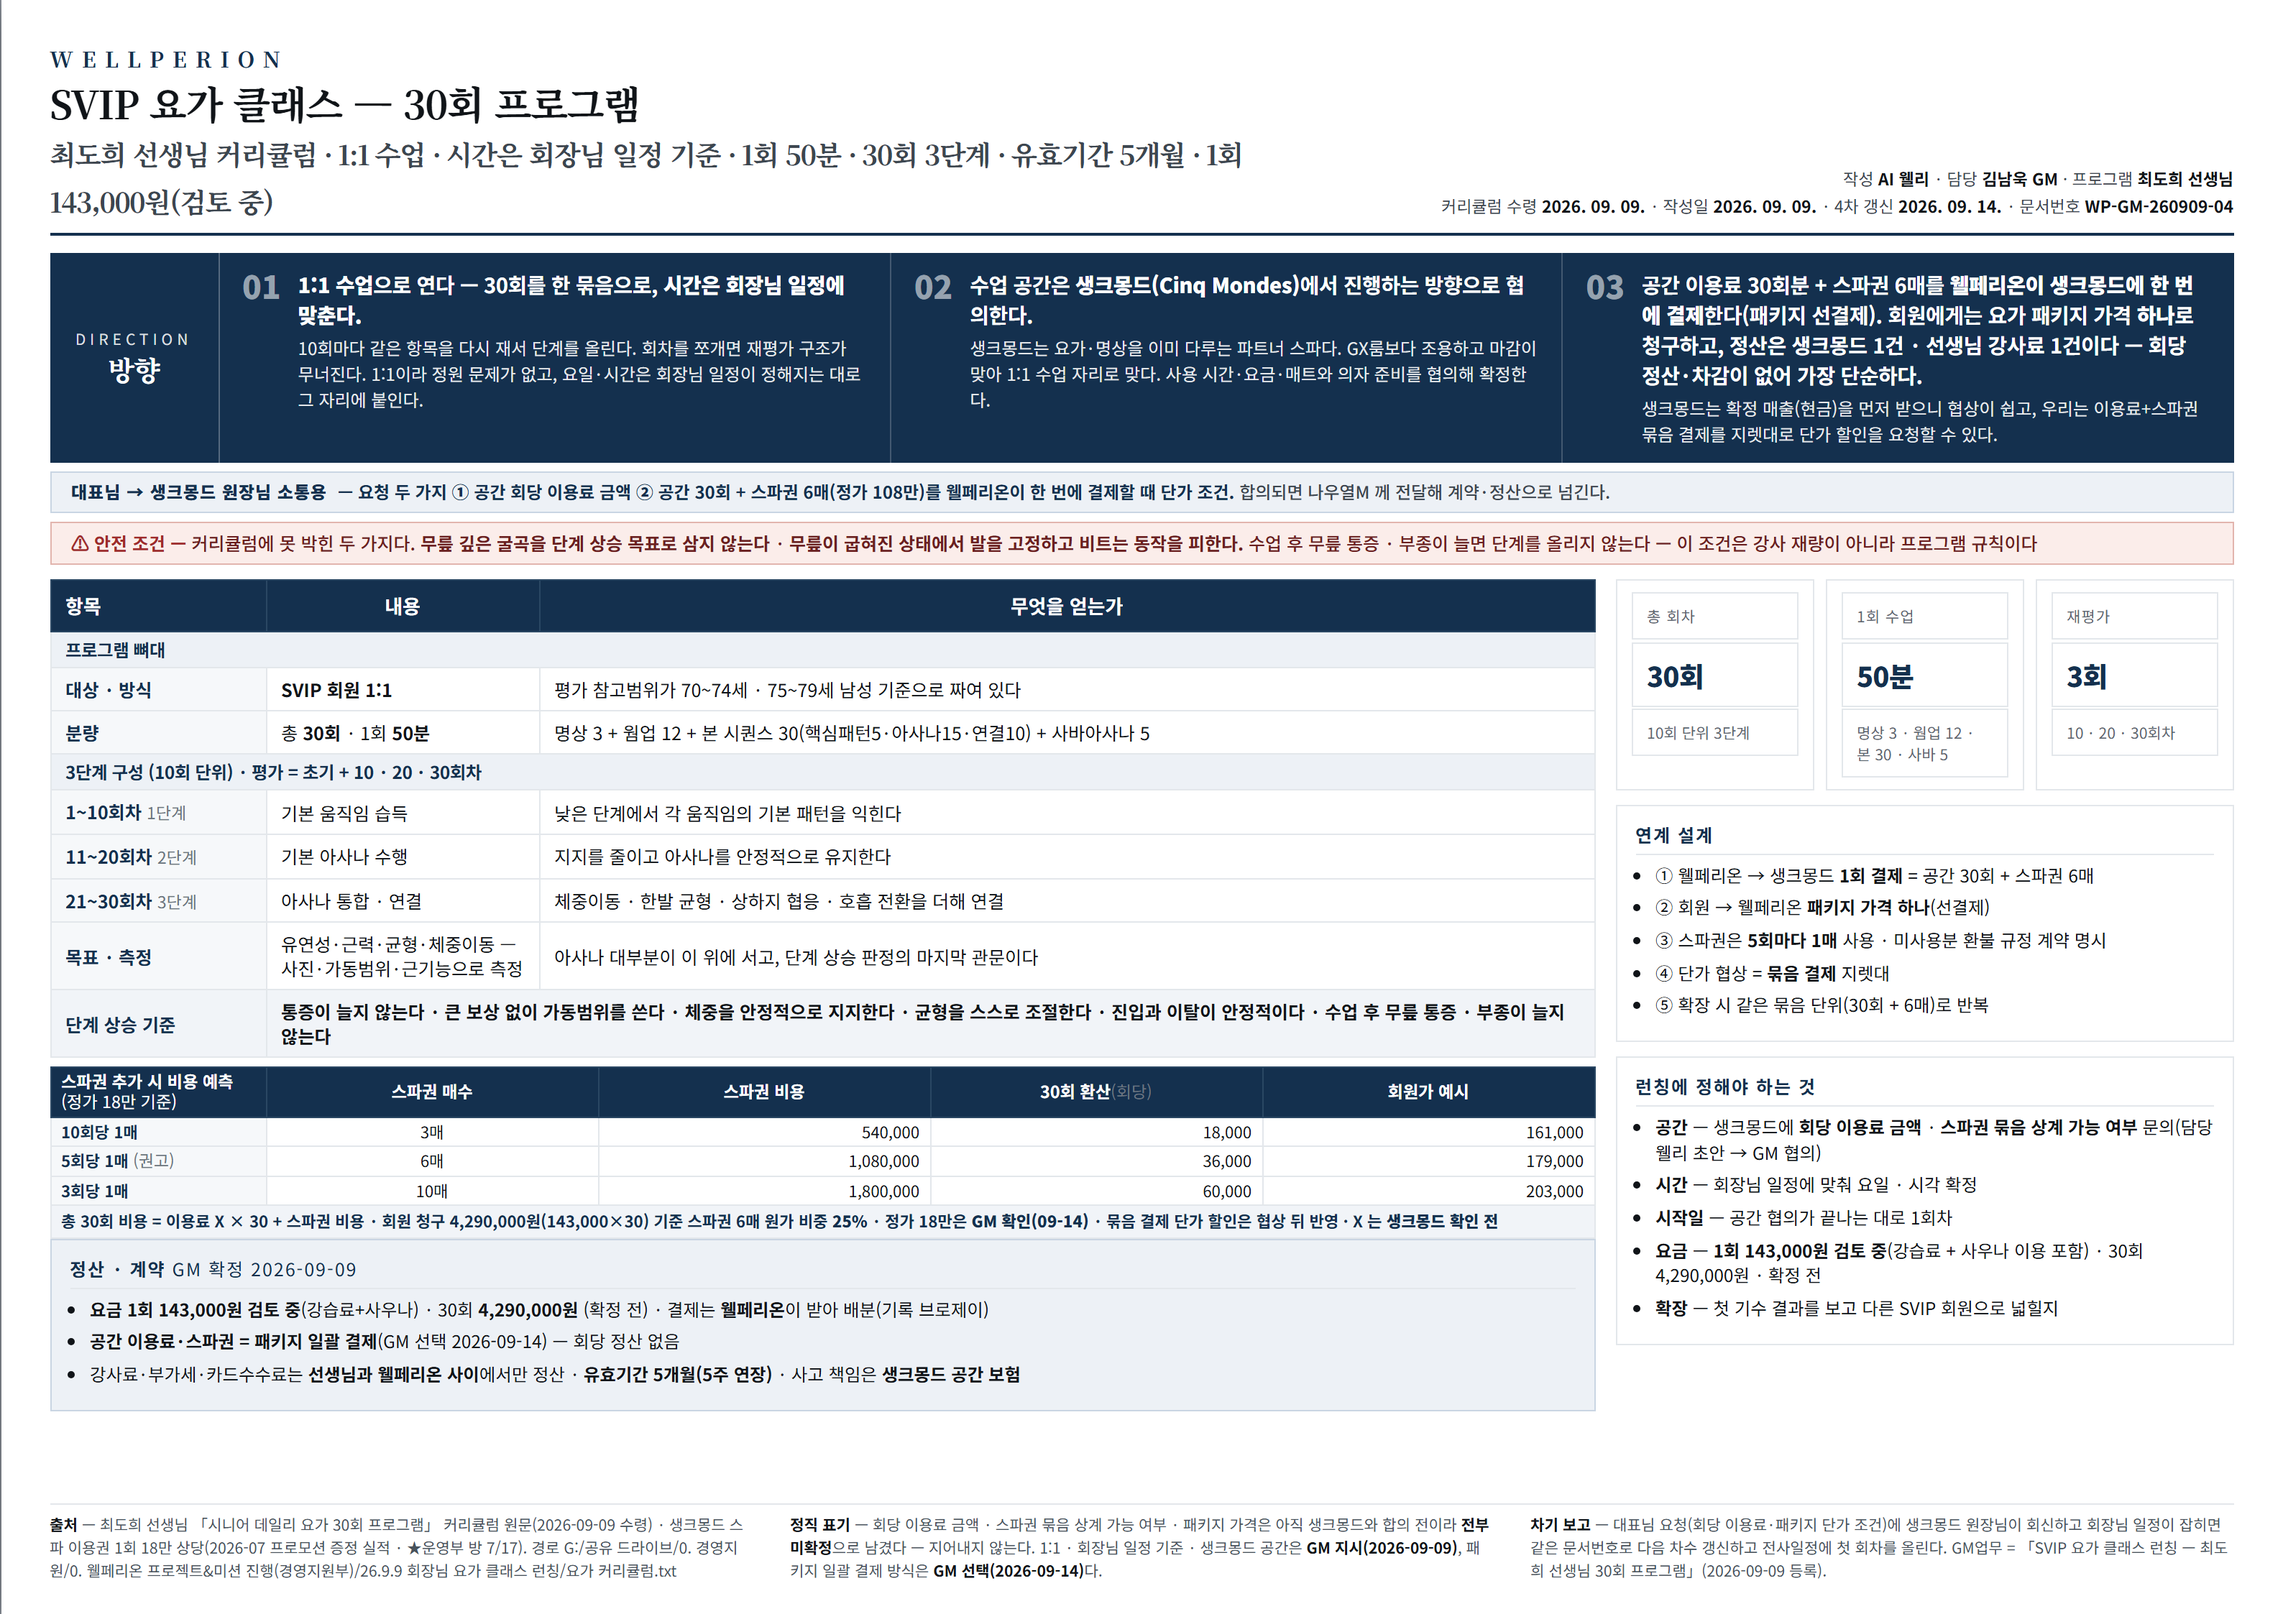
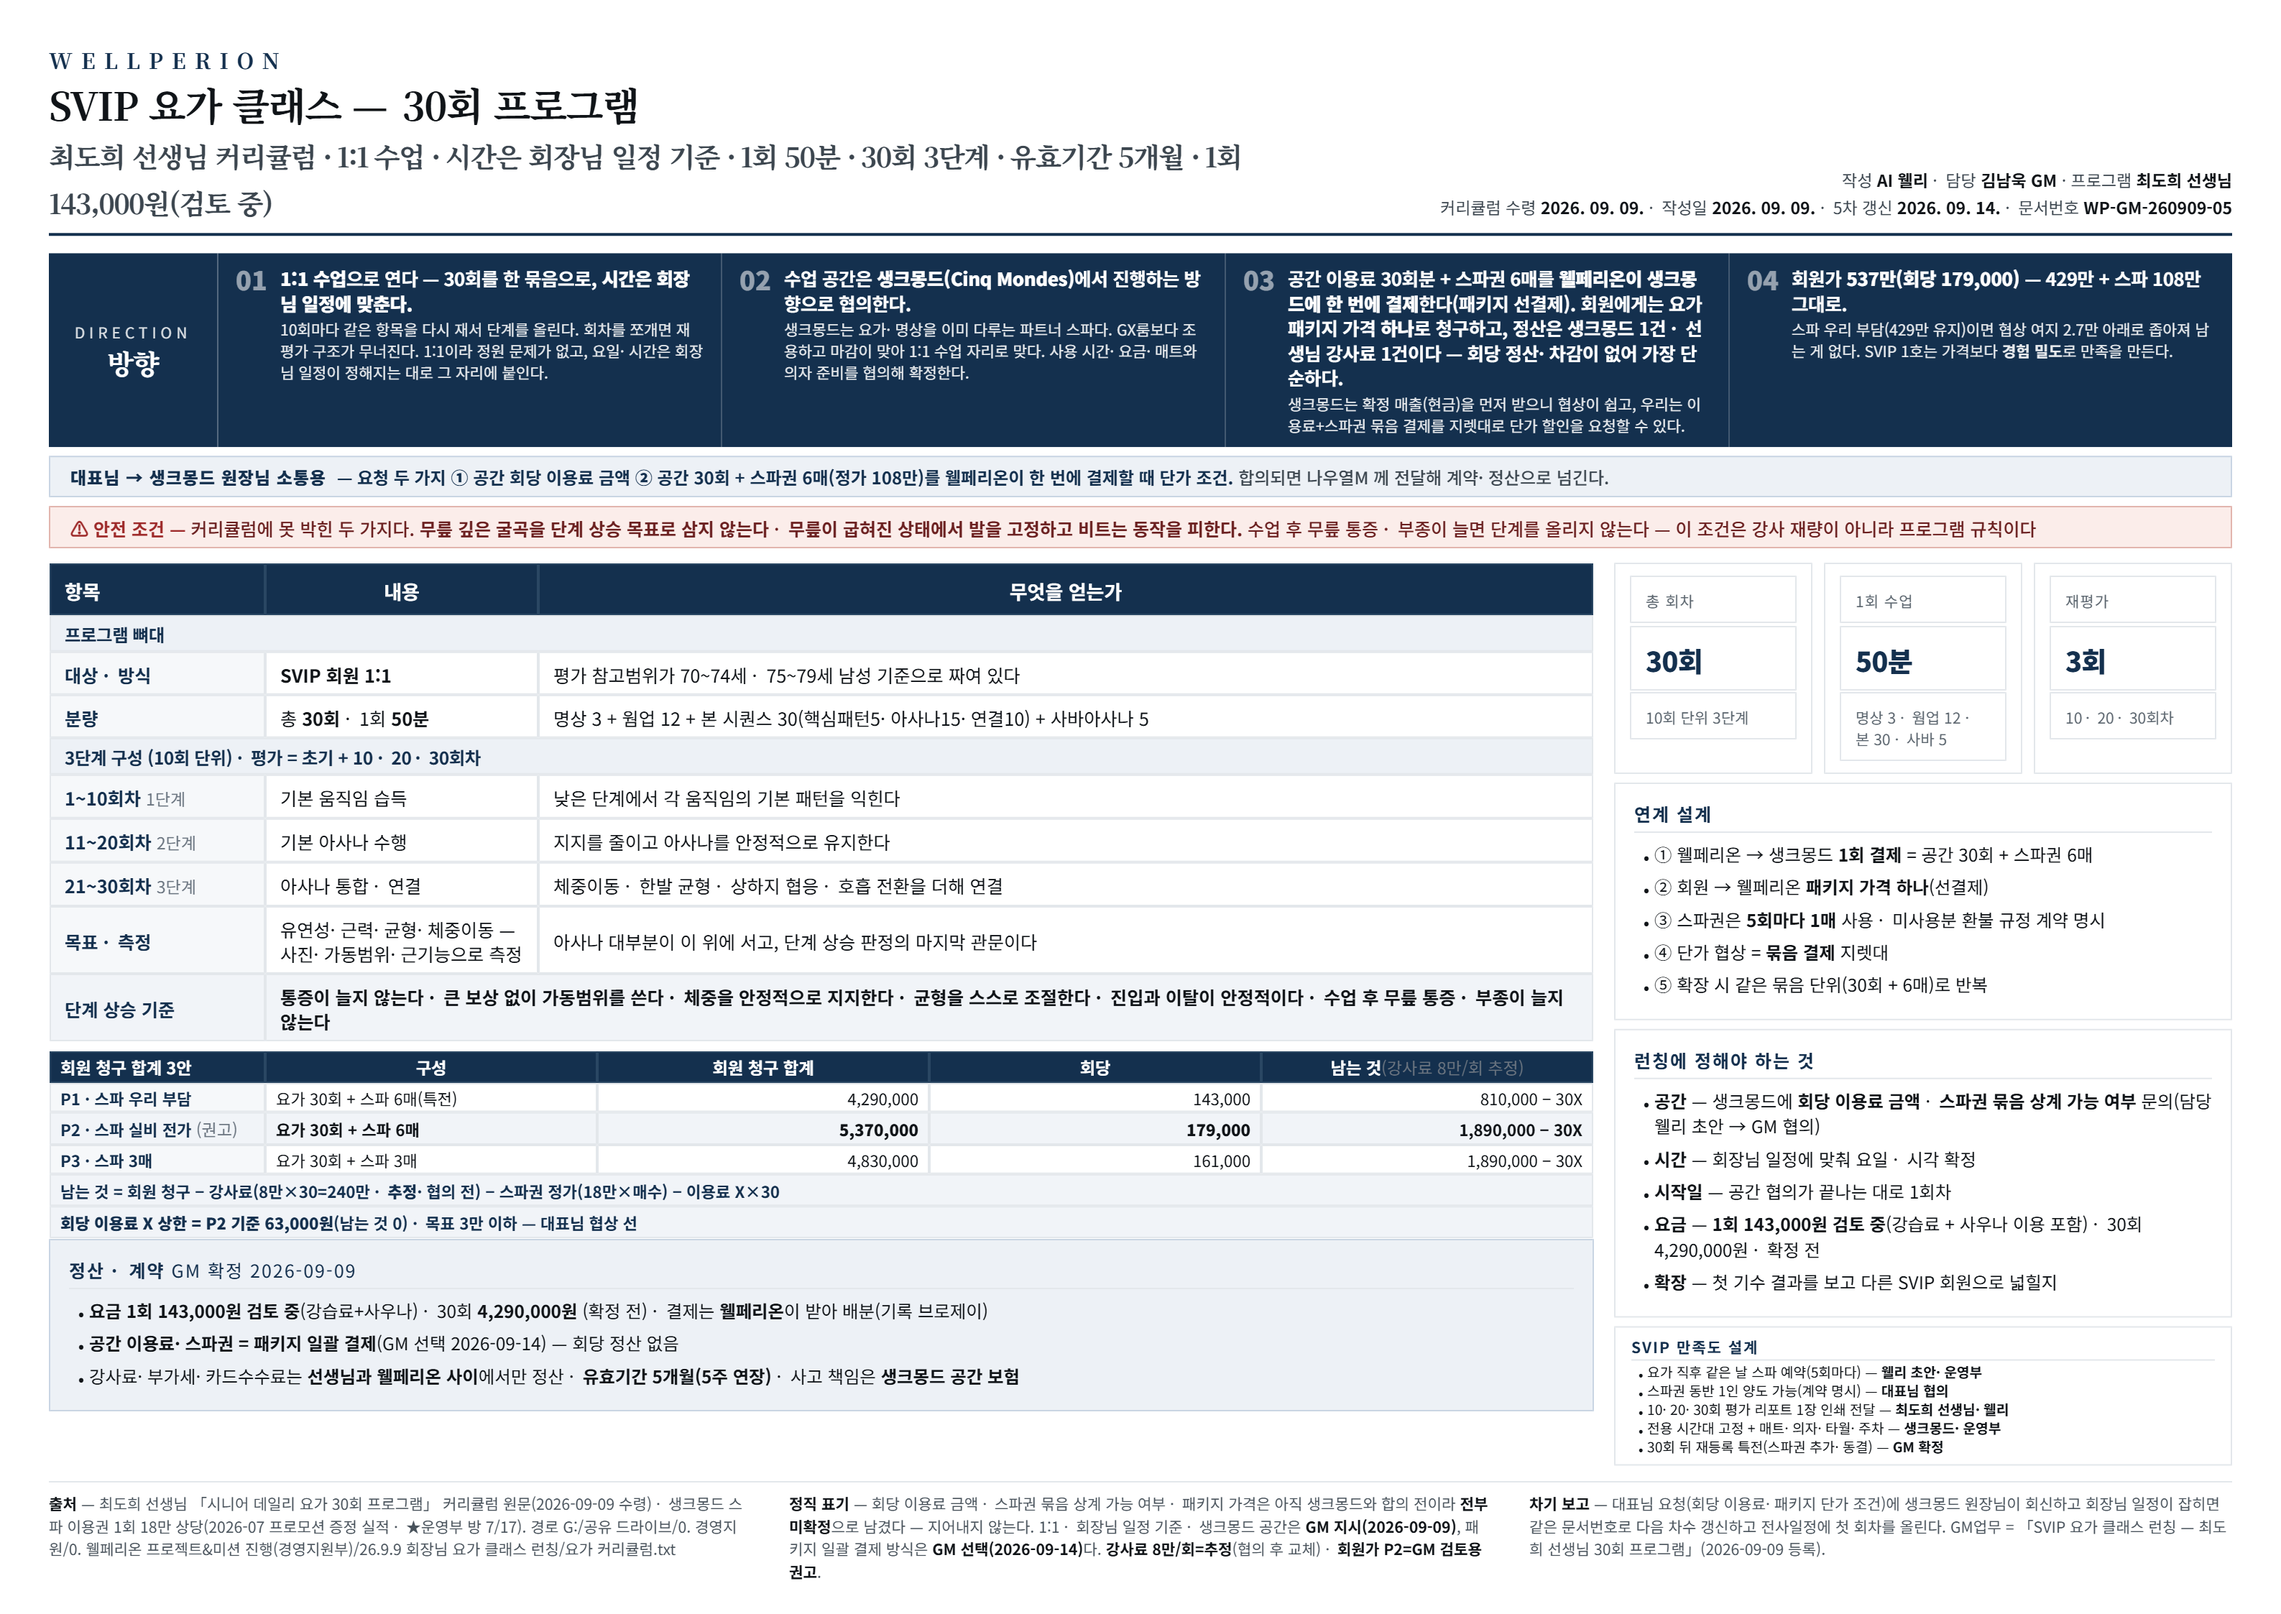
[웰리] SVIP 요가 A3 5차 — 회원 청구 합계 3안(권고 537만) · 수익 구조 · SVIP 만족도 설계 (GM 지시 2026-09-14)
Claude-Session: https://claude.ai/code/session_01JUKggyjF6sJqPQS1zakrb9

Changed region(s): [[0.0, 0.0312, 0.9981, 0.9973]]

diff --git a/3. 웰페리온 가이드/coo/chairman/260909_SVIP요가클래스_런칭요약_A3.html b/3. 웰페리온 가이드/coo/chairman/260909_SVIP요가클래스_런칭요약_A3.html
@@ -36,11 +36,11 @@
   .ask .lb span{ font-size:10.5px; letter-spacing:3px; opacity:.85; }
   .ask .lb strong{ font-family:'Noto Serif KR',serif; font-size:19px; letter-spacing:-.5px; }
   .ask .items{ flex:1; display:flex; }
-  .ask .it{ flex:1; padding:11px 16px; border-right:1px solid rgba(255,255,255,.2); display:flex; gap:12px; }
+  .ask .it{ flex:1; padding:8px 12px; border-right:1px solid rgba(255,255,255,.2); display:flex; gap:9px; }
   .ask .it:last-child{ border-right:0; }
-  .ask .n{ font-size:22px; font-weight:900; opacity:.55; line-height:1; }
-  .ask .q{ font-size:14.5px; font-weight:700; line-height:1.45; letter-spacing:-.2px; }
-  .ask .d{ font-size:12px; line-height:1.5; margin-top:4px; opacity:.9; }
+  .ask .n{ font-size:18px; font-weight:900; opacity:.55; line-height:1; }
+  .ask .q{ font-size:12.8px; font-weight:700; line-height:1.35; letter-spacing:-.2px; }
+  .ask .d{ font-size:10.6px; line-height:1.4; margin-top:3px; opacity:.9; }
   .alert{ margin-top:6px; background:#FBEDEA; border:1px solid #E2B5AE; color:var(--bad); font-size:12.5px; font-weight:700; padding:5px 14px; line-height:1.4; }
   .alert span{ font-weight:500; color:#6B2020; }
   .relay{ margin-top:6px; background:var(--navy-bg); border:1px solid #C9D5E3; color:var(--navy); font-size:12px; font-weight:700; padding:5px 14px; line-height:1.4; }
@@ -61,12 +61,15 @@
   .t3 th,.t3 td{ padding:3px 7px; font-size:11.1px; line-height:1.2; }
   .t3 thead th{ height:22px; font-size:11.6px; }
   .t3 tr.sum td{ padding:4px 7px; }
-  .side{ width:430px; flex:none; display:flex; flex-direction:column; gap:10px; }
+  .side{ width:430px; flex:none; display:flex; flex-direction:column; gap:6px; }
   .box{ border:1px solid var(--line); padding:10px 13px; }
   .box h3{ font-size:12.5px; font-weight:700; color:var(--navy); letter-spacing:1px; margin-bottom:6px; padding-bottom:4px; border-bottom:1px solid var(--line); }
   .box li{ font-size:12.2px; line-height:1.45; margin:0 0 5px 14px; }
   .box li b{ font-weight:700; }
   .box.rec{ background:var(--navy-bg); border-color:#C9D5E3; flex:1; }
+  .box.tight{ padding:5px 11px; }
+  .box.tight h3{ font-size:10.5px; margin-bottom:2px; padding-bottom:2px; }
+  .box.tight li{ font-size:9.6px; line-height:1.2; margin:0 0 1.5px 11px; }
   .kpi{ display:flex; gap:8px; }
   .kpi div{ flex:1; border:1px solid var(--line); padding:8px 10px; }
   .kpi .l{ font-size:10.5px; color:#5C666F; letter-spacing:.5px; }
@@ -92,7 +95,7 @@
     </div>
     <div class="meta">
       작성 <b>AI 웰리</b> · 담당 <b>김남욱 GM</b> · 프로그램 <b>최도희 선생님</b><br>
-      커리큘럼 수령 <b>2026. 09. 09.</b> · 작성일 <b>2026. 09. 09.</b> · 4차 갱신 <b>2026. 09. 14.</b> · 문서번호 <b>WP-GM-260909-04</b>
+      커리큘럼 수령 <b>2026. 09. 09.</b> · 작성일 <b>2026. 09. 09.</b> · 5차 갱신 <b>2026. 09. 14.</b> · 문서번호 <b>WP-GM-260909-05</b>
     </div>
   </div>
 
@@ -102,6 +105,7 @@
       <div class="it"><div class="n">01</div><div><div class="q"><b>1:1 수업</b>으로 연다 — 30회를 한 묶음으로, <b>시간은 회장님 일정에 맞춘다.</b></div><div class="d">10회마다 같은 항목을 다시 재서 단계를 올린다. 회차를 쪼개면 재평가 구조가 무너진다. 1:1이라 정원 문제가 없고, 요일·시간은 회장님 일정이 정해지는 대로 그 자리에 붙인다.</div></div></div>
       <div class="it"><div class="n">02</div><div><div class="q">수업 공간은 <b>생크몽드(Cinq Mondes)</b>에서 진행하는 방향으로 협의한다.</div><div class="d">생크몽드는 요가·명상을 이미 다루는 파트너 스파다. GX룸보다 조용하고 마감이 맞아 1:1 수업 자리로 맞다. 사용 시간·요금·매트와 의자 준비를 협의해 확정한다.</div></div></div>
       <div class="it"><div class="n">03</div><div><div class="q">공간 이용료 30회분 + 스파권 6매를 <b>웰페리온이 생크몽드에 한 번에 결제</b>한다(패키지 선결제). 회원에게는 요가 패키지 가격 <b>하나</b>로 청구하고, 정산은 생크몽드 1건 · 선생님 강사료 1건이다 — 회당 정산·차감이 없어 가장 단순하다.</div><div class="d">생크몽드는 확정 매출(현금)을 먼저 받으니 협상이 쉽고, 우리는 이용료+스파권 묶음 결제를 지렛대로 단가 할인을 요청할 수 있다.</div></div></div>
+      <div class="it"><div class="n">04</div><div><div class="q">회원가 <b>537만(회당 179,000)</b> — 429만 + 스파 108만 그대로.</div><div class="d">스파 우리 부담(429만 유지)이면 협상 여지 2.7만 아래로 좁아져 남는 게 없다. SVIP 1호는 가격보다 <b>경험 밀도</b>로 만족을 만든다.</div></div></div>
     </div>
   </div>
   <div class="relay"><b class="lb">대표님 → 생크몽드 원장님 소통용</b> — 요청 두 가지 <b>①</b> 공간 회당 이용료 금액 <b>②</b> 공간 30회 + 스파권 6매(정가 108만)를 웰페리온이 한 번에 결제할 때 단가 조건. <span>합의되면 나우열M 께 전달해 계약·정산으로 넘긴다.</span></div>
@@ -124,12 +128,13 @@
         </tbody>
       </table>
       <table class="t3" style="margin-top:6px;">
-        <thead><tr><th class="k" style="width:150px">스파권 추가 시 비용 예측 <span style="font-weight:400">(정가 18만 기준)</span></th><th>스파권 매수</th><th>스파권 비용</th><th>30회 환산<span class="dim">(회당)</span></th><th>회원가 예시</th></tr></thead>
+        <thead><tr><th class="k" style="width:150px">회원 청구 합계 3안</th><th>구성</th><th>회원 청구 합계</th><th>회당</th><th>남는 것<span class="dim">(강사료 8만/회 추정)</span></th></tr></thead>
         <tbody>
-          <tr><td class="k">10회당 1매</td><td class="c">3매</td><td class="n">540,000</td><td class="n">18,000</td><td class="n">161,000</td></tr>
-          <tr><td class="k">5회당 1매 <span class="dim">(권고)</span></td><td class="c">6매</td><td class="n">1,080,000</td><td class="n">36,000</td><td class="n">179,000</td></tr>
-          <tr><td class="k">3회당 1매</td><td class="c">10매</td><td class="n">1,800,000</td><td class="n">60,000</td><td class="n">203,000</td></tr>
-          <tr class="sum"><td class="k" colspan="5">총 30회 비용 = 이용료 X × 30 + 스파권 비용 · 회원 청구 4,290,000원(143,000×30) 기준 스파권 6매 원가 비중 <b>25%</b> · 정가 18만은 <b>GM 확인(09-14)</b> · 묶음 결제 단가 할인은 협상 뒤 반영 · X 는 <b>생크몽드 확인 전</b></td></tr>
+          <tr><td class="k">P1 · 스파 우리 부담</td><td>요가 30회 + 스파 6매(특전)</td><td class="n">4,290,000</td><td class="n">143,000</td><td class="n">810,000 − 30X</td></tr>
+          <tr class="sum"><td class="k">P2 · 스파 실비 전가 <span class="dim">(권고)</span></td><td>요가 30회 + 스파 6매</td><td class="n"><b>5,370,000</b></td><td class="n"><b>179,000</b></td><td class="n">1,890,000 − 30X</td></tr>
+          <tr><td class="k">P3 · 스파 3매</td><td>요가 30회 + 스파 3매</td><td class="n">4,830,000</td><td class="n">161,000</td><td class="n">1,890,000 − 30X</td></tr>
+          <tr class="sum"><td class="k" colspan="5">남는 것 = 회원 청구 − 강사료(8만×30=240만 · <b>추정</b>·협의 전) − 스파권 정가(18만×매수) − 이용료 X×30</td></tr>
+          <tr class="sum"><td class="k" colspan="5"><b>회당 이용료 X 상한 = P2 기준 63,000원</b>(남는 것 0) · 목표 3만 이하 — 대표님 협상 선</td></tr>
         </tbody>
       </table>
       <div class="box rec">
@@ -168,12 +173,22 @@
           <li><b>확장</b> — 첫 기수 결과를 보고 다른 SVIP 회원으로 넓힐지</li>
         </ul>
       </div>
+      <div class="box tight">
+        <h3>SVIP 만족도 설계</h3>
+        <ul>
+          <li>요가 직후 같은 날 스파 예약(5회마다) — <b>웰리 초안·운영부</b></li>
+          <li>스파권 동반 1인 양도 가능(계약 명시) — <b>대표님 협의</b></li>
+          <li>10·20·30회 평가 리포트 1장 인쇄 전달 — <b>최도희 선생님·웰리</b></li>
+          <li>전용 시간대 고정 + 매트·의자·타월·주차 — <b>생크몽드·운영부</b></li>
+          <li>30회 뒤 재등록 특전(스파권 추가·동결) — <b>GM 확정</b></li>
+        </ul>
+      </div>
     </div>
   </div>
 
   <div class="foot">
     <div><b>출처</b> — 최도희 선생님 「시니어 데일리 요가 30회 프로그램」 커리큘럼 원문(2026-09-09 수령) · 생크몽드 스파 이용권 1회 18만 상당(2026-07 프로모션 증정 실적 · ★운영부 방 7/17). 경로 G:/공유 드라이브/0. 경영지원/0. 웰페리온 프로젝트&amp;미션 진행(경영지원부)/26.9.9 회장님 요가 클래스 런칭/요가 커리큘럼.txt</div>
-    <div><b>정직 표기</b> — 회당 이용료 금액 · 스파권 묶음 상계 가능 여부 · 패키지 가격은 아직 생크몽드와 합의 전이라 <b>전부 미확정</b>으로 남겼다 — 지어내지 않는다. 1:1 · 회장님 일정 기준 · 생크몽드 공간은 <b>GM 지시(2026-09-09)</b>, 패키지 일괄 결제 방식은 <b>GM 선택(2026-09-14)</b>다.</div>
+    <div><b>정직 표기</b> — 회당 이용료 금액 · 스파권 묶음 상계 가능 여부 · 패키지 가격은 아직 생크몽드와 합의 전이라 <b>전부 미확정</b>으로 남겼다 — 지어내지 않는다. 1:1 · 회장님 일정 기준 · 생크몽드 공간은 <b>GM 지시(2026-09-09)</b>, 패키지 일괄 결제 방식은 <b>GM 선택(2026-09-14)</b>다. <b>강사료 8만/회=추정</b>(협의 후 교체) · <b>회원가 P2=GM 검토용 권고</b>.</div>
     <div><b>차기 보고</b> — 대표님 요청(회당 이용료·패키지 단가 조건)에 생크몽드 원장님이 회신하고 회장님 일정이 잡히면 같은 문서번호로 다음 차수 갱신하고 전사일정에 첫 회차를 올린다. GM업무 = 「SVIP 요가 클래스 런칭 — 최도희 선생님 30회 프로그램」(2026-09-09 등록).</div>
   </div>
 </div>
